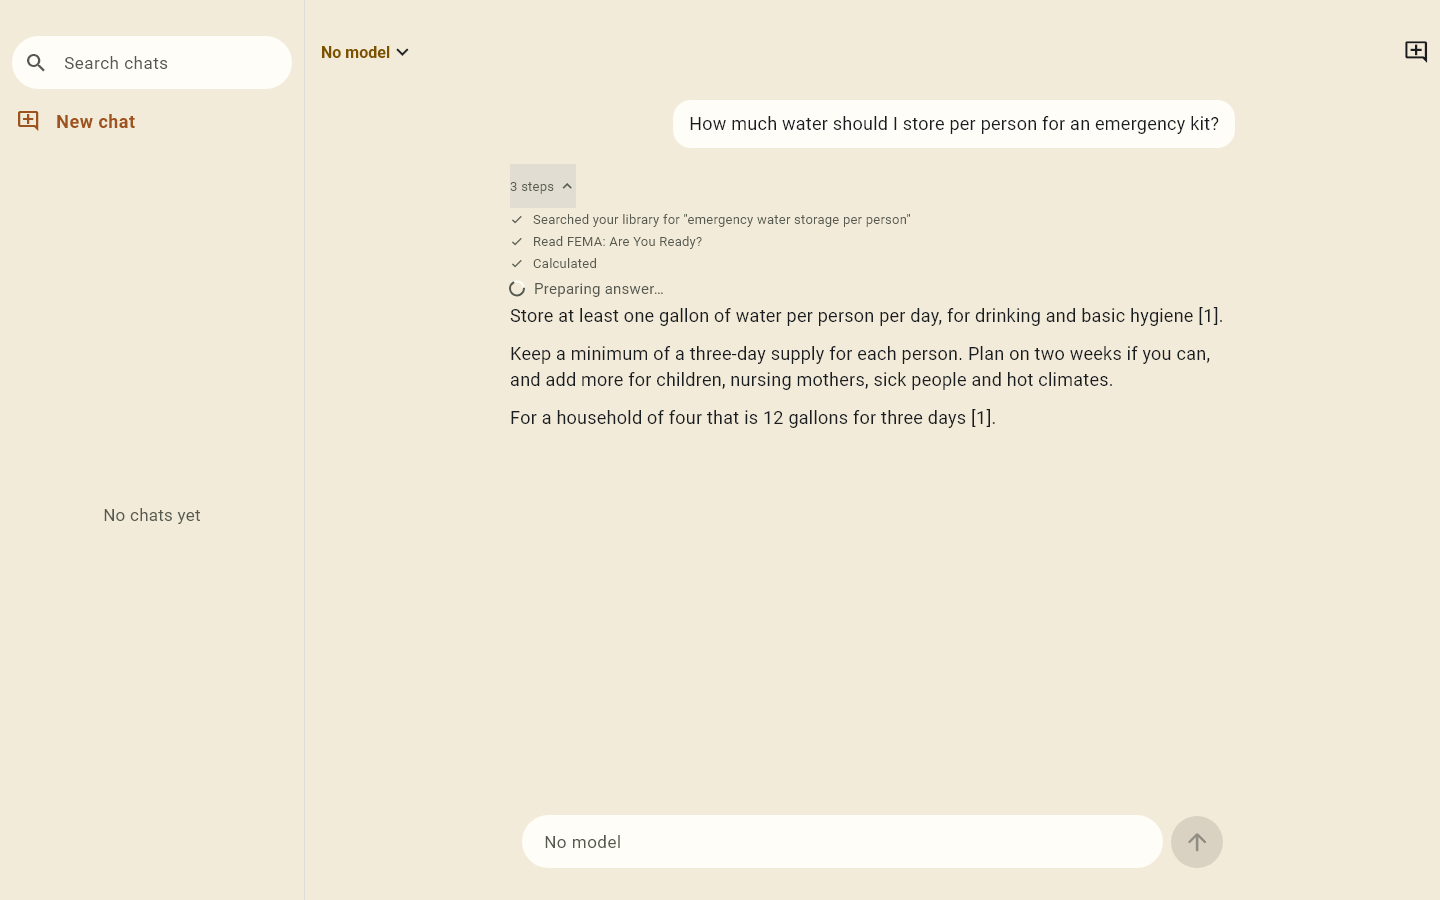
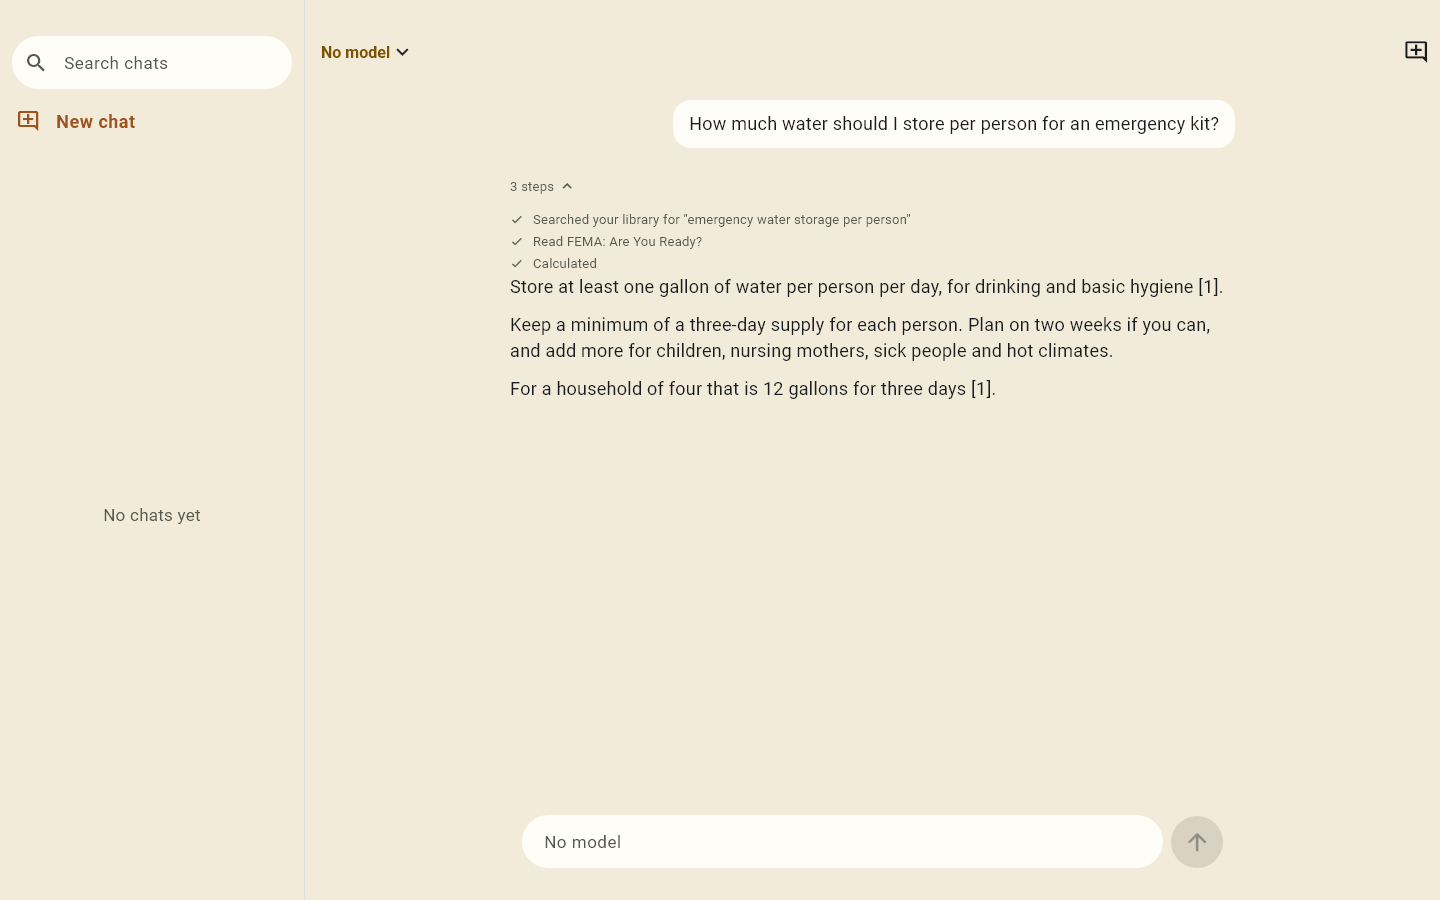
Ask progress: hide the status line while the answer writes
Once answer text streams, the spinner line is gone and the collapsed steps
line sits right above the text; the done state is unchanged. The expanded
renders now settle the tap's ink splash. The guide describes the new
progress wording.

Changed region(s): [[0.3438, 0.3111, 0.8438, 0.4667]]

diff --git a/app/test/answer_progress_test.dart b/app/test/answer_progress_test.dart
@@ -33,11 +33,13 @@ void main() {
 
       const note = 'I will look that up.';
       await show(TurnPhase.answering, text: note);
+      // While text writes there is no status line; it comes back for the tool call, and then stays put across tools.
+      expect(find.byKey(const ValueKey('answer-progress')), findsNothing);
+      await show(TurnPhase.searching, tool: 'search', notes: [note]);
       final progress = tester.element(
         find.byKey(const ValueKey('answer-progress')),
       );
       final initialPosition = tester.getTopLeft(find.byType(AnswerMarkdown));
-      await show(TurnPhase.searching, tool: 'search', notes: [note]);
       expect(find.text('Searching your library…'), findsOneWidget);
       expect(
         tester.widget<AnswerMarkdown>(find.byType(AnswerMarkdown)).text,

diff --git a/app/test/progress_steps_test.dart b/app/test/progress_steps_test.dart
@@ -161,6 +161,9 @@ void main() {
       await show(TurnPhase.searching, '');
       expect(find.text('Calculated'), findsOneWidget);
       await show(TurnPhase.answering, 'Store one gallon');
+      expect(find.byKey(const ValueKey('answer-progress')), findsNothing);
+      expect(find.text('Preparing answer…'), findsNothing);
+      expect(find.byType(CircularProgressIndicator), findsNothing);
       expect(find.text('3 steps'), findsOneWidget);
       expect(find.text('Calculated'), findsNothing);
       expect(find.bySemanticsLabel('3 steps, show steps'), findsOneWidget);

diff --git a/app/lib/chat/answer_progress.dart b/app/lib/chat/answer_progress.dart
@@ -126,6 +126,8 @@ class _AnswerProgressState extends State<AnswerProgress> {
               ? stepPresent(ToolStep(activeTool))
               : 'Preparing answer…',
       TurnPhase.done => failed || text.isEmpty ? null : 'Answer delivered',
+      // The answer is writing: the text is the progress, and the trail line sits right above it.
+      TurnPhase.answering when text.isNotEmpty => null,
       _ => 'Preparing answer…',
     };
     // Promotion of the current text into notes leaves this rendered text intact.

diff --git a/app/test_shots/ask_progress_renders_test.dart b/app/test_shots/ask_progress_renders_test.dart
@@ -79,6 +79,8 @@ void main() {
         await shoot('b-writing');
 
         await tester.tap(find.byKey(const ValueKey('answer-trail-toggle')));
+        await tester.pump(const Duration(seconds: 1));
+        await tester.pump(const Duration(seconds: 1));
         await shoot('c-expanded');
 
         await tester.pumpWidget(const SizedBox.shrink());

diff --git a/app/assets/guide/chapters/ch2.md b/app/assets/guide/chapters/ch2.md
@@ -157,7 +157,7 @@ Delete always asks first. The pop-up shows what it frees and says "You can downl
 1. Open "Ask" from the bar. You can also type in the Home search box and tap "Ask Cache:".
 2. If "Ask" says "Ask needs a model on this device.", tap "Choose a model" first. If the title says "No model", tap it and choose a model.
 3. Type in "Ask anything" and tap "Send".
-4. Follow the progress: "Preparing answer…", "Looking this up…" and "Reading from source…". The work stays visible as the answer appears; "Answer delivered" marks completion. Tap "Stop" to stop it.
+4. Follow the progress. While Cache works, one line says what it is doing, such as searching your library, reading a source or calculating, and each finished step stays above it with a check. When the answer starts to appear, the steps fold into one line such as "3 steps"; tap it to show or hide them. "Answer delivered" marks completion. Tap "Stop" to stop it.
 
 Cache looks in your Library, libraries, downloaded places and maps, and weather data. If you set it up, it also searches the web when you're online.
 

diff --git a/docs/guide/ch2.md b/docs/guide/ch2.md
@@ -157,7 +157,7 @@ Delete always asks first. The pop-up shows what it frees and says "You can downl
 1. Open "Ask" from the bar. You can also type in the Home search box and tap "Ask Cache:".
 2. If "Ask" says "Ask needs a model on this device.", tap "Choose a model" first. If the title says "No model", tap it and choose a model.
 3. Type in "Ask anything" and tap "Send".
-4. Follow the progress: "Preparing answer…", "Looking this up…" and "Reading from source…". The work stays visible as the answer appears; "Answer delivered" marks completion. Tap "Stop" to stop it.
+4. Follow the progress. While Cache works, one line says what it is doing, such as searching your library, reading a source or calculating, and each finished step stays above it with a check. When the answer starts to appear, the steps fold into one line such as "3 steps"; tap it to show or hide them. "Answer delivered" marks completion. Tap "Stop" to stop it.
 
 Cache looks in your Library, libraries, downloaded places and maps, and weather data. If you set it up, it also searches the web when you're online.
 
